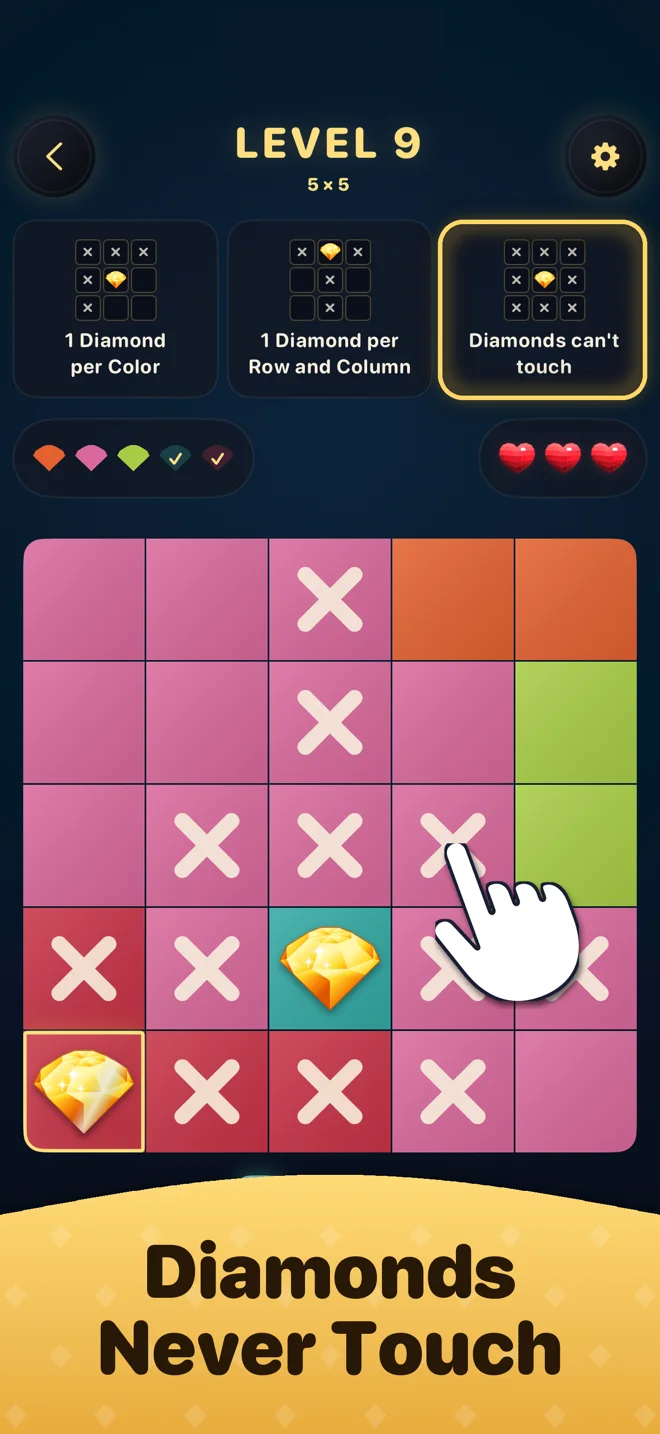
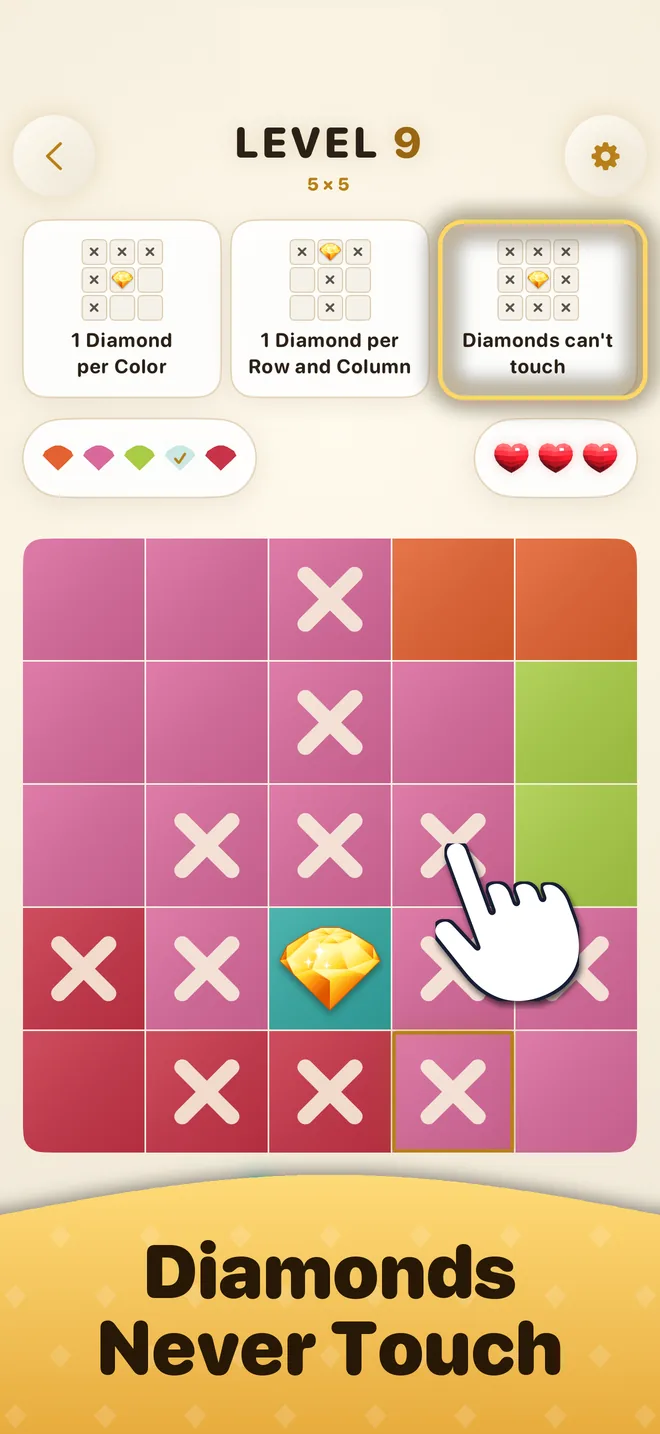
Show version 1.3 on the site: duels, 1000 levels and iPad
The store images are the 1.3 set, a new section explains the duels with
their six leagues and monthly seasons, and every place that said 600
levels or iPhone only now says 1000 levels and iPhone and iPad. The link
preview shows the duel in the middle.

diff --git a/index.html b/index.html
@@ -5,11 +5,11 @@
   <meta name="viewport" content="width=device-width, initial-scale=1">
   <meta name="theme-color" content="#fffaf0">
   <title>Diadoku: Logic, not luck</title>
-  <meta name="description" content="A calm logic puzzle for iPhone. Place one diamond in every row, column and color, and no two diamonds may touch. Every board has exactly one solution. 600 levels, a daily puzzle and a weekly star league, free.">
+  <meta name="description" content="A calm logic puzzle for iPhone and iPad. Place one diamond in every row, column and color, and no two diamonds may touch. Every board has exactly one solution. 1000 levels, duels against other players, a daily puzzle and a weekly star league, free.">
   <link rel="canonical" href="https://diadoku.com/">
   <meta property="og:type" content="website">
   <meta property="og:title" content="Diadoku: Logic, not luck">
-  <meta property="og:description" content="Place one diamond in every row, column and color. Every board has exactly one solution. Free on iPhone.">
+  <meta property="og:description" content="Place one diamond in every row, column and color. Every board has exactly one solution. 1000 levels and duels, free on iPhone and iPad.">
   <meta property="og:url" content="https://diadoku.com/">
   <meta property="og:image" content="https://diadoku.com/assets/og.jpg">
   <meta property="og:image:width" content="1270">
@@ -19,7 +19,7 @@
   <link rel="icon" type="image/png" sizes="32x32" href="assets/favicon-32.png">
   <link rel="icon" type="image/png" sizes="16x16" href="assets/favicon-16.png">
   <link rel="apple-touch-icon" href="assets/apple-touch-icon.png">
-  <link rel="stylesheet" href="styles.css?v=2">
+  <link rel="stylesheet" href="styles.css?v=3">
 </head>
 <body>
   <header class="top">
@@ -34,11 +34,12 @@
     <!-- Hero: the thesis and three store images, like the first gallery slide -->
     <section class="hero">
       <div class="copy">
-        <p class="eyebrow">A diamond logic puzzle for iPhone</p>
+        <p class="eyebrow">A diamond logic puzzle for iPhone and iPad</p>
         <h1>Logic, <em>not luck.</em></h1>
         <p class="lead">Place one diamond in every row, column and color. No two diamonds ever touch. Every board has exactly one solution.</p>
         <ul class="chips" aria-label="Highlights">
-          <li>600 levels</li>
+          <li>1000 levels</li>
+          <li>Duels</li>
           <li>Daily puzzle</li>
           <li class="gold">Free</li>
         </ul>
@@ -49,7 +50,7 @@
       </div>
       <div class="shots fan" aria-hidden="true">
         <img src="assets/store/01-find-the-diamonds.webp" width="660" height="1434" alt="">
-        <img src="assets/store/08-light-and-dark.webp" width="660" height="1434" alt="">
+        <img src="assets/store/04-duel-other-players.webp" width="660" height="1434" alt="">
         <img src="assets/store/07-leaderboard.webp" width="660" height="1434" alt="">
       </div>
     </section>
@@ -67,23 +68,34 @@
       </div>
       <div class="shots pair">
         <img src="assets/store/02-row-and-column.webp" width="660" height="1434" loading="lazy" alt="A level with X marks showing one diamond per row and column">
-        <img src="assets/store/03-never-touch.webp" width="660" height="1434" loading="lazy" alt="The dark look: the cells around a diamond are marked because diamonds never touch">
+        <img src="assets/store/03-never-touch.webp" width="660" height="1434" loading="lazy" alt="The cells around a diamond are marked because diamonds never touch">
       </div>
     </section>
 
-    <section class="feature feature--flip" aria-labelledby="daily-title">
+    <section class="feature feature--flip" aria-labelledby="duel-title">
+      <div class="copy">
+        <p class="eyebrow">New: Duels</p>
+        <h2 id="duel-title">Same board. <em>Who is faster?</em></h2>
+        <p class="lead">Race another player on the same board, with three hearts, no hints and three minutes. Win trophies and climb six leagues from Quartz to Diamond, with a new season every month.</p>
+      </div>
+      <div class="shots pair">
+        <img src="assets/store/04-duel-other-players.webp" width="660" height="1434" loading="lazy" alt="A duel: you and your opponent race on the same 8 by 8 board">
+        <img src="assets/store/05-climb-to-diamond.webp" width="660" height="1434" loading="lazy" alt="The duel lobby with your league, your trophies and the season">
+      </div>
+    </section>
+
+    <section class="feature" aria-labelledby="daily-title">
       <div class="copy">
         <p class="eyebrow">Every day</p>
         <h2 id="daily-title">A new puzzle <em>every day.</em></h2>
-        <p class="lead">Keep your daily streak going, earn bonus hints on every 7th day and go for three stars.</p>
+        <p class="lead">Light your streak flame with the first level of the day, keep it going, earn bonus hints on every 7th day and go for three stars.</p>
       </div>
-      <div class="shots pair">
-        <img src="assets/store/05-daily-challenge.webp" width="660" height="1434" loading="lazy" alt="The daily challenge, a 6 by 6 board">
-        <img src="assets/store/04-train-your-brain.webp" width="660" height="1434" loading="lazy" alt="Level complete with three stars, time, moves and mistakes">
+      <div class="shots single">
+        <img src="assets/store/06-daily-challenge.webp" width="660" height="1434" loading="lazy" alt="The daily challenge, a 5 by 5 board">
       </div>
     </section>
 
-    <section class="feature" aria-labelledby="league-title">
+    <section class="feature feature--flip" aria-labelledby="league-title">
       <div class="copy">
         <p class="eyebrow">Weekly league</p>
         <h2 id="league-title">Climb the <em>weekly league.</em></h2>
@@ -91,20 +103,22 @@
       </div>
       <div class="shots pair">
         <img src="assets/store/07-leaderboard.webp" width="660" height="1434" loading="lazy" alt="The weekly leaderboard with a podium for the top 3">
-        <img src="assets/store/06-gems-and-frames.webp" width="660" height="1434" loading="lazy" alt="The profile with gem avatars and frames">
+        <img src="assets/store/gems-and-frames.webp" width="660" height="1434" loading="lazy" alt="The profile with gem avatars and frames">
       </div>
     </section>
 
-    <section class="feature feature--flip" aria-labelledby="calm-title">
+    <section class="feature" aria-labelledby="calm-title">
       <div class="copy">
         <p class="eyebrow">Made with care</p>
         <h2 id="calm-title">Calm, clean <em>and yours.</em></h2>
         <ul class="ticks">
+          <li>1000 levels, from 4 by 4 to 10 by 10</li>
+          <li>On iPhone and iPad</li>
           <li>Light and dark look</li>
           <li>7 languages</li>
           <li>Progress saved in iCloud</li>
           <li>A tutorial with a voice</li>
-          <li>Plays offline</li>
+          <li>Levels play offline</li>
         </ul>
       </div>
       <div class="shots single">
@@ -115,7 +129,7 @@
     <section class="final" aria-labelledby="final-title">
       <img src="assets/icon-256.png" width="96" height="96" alt="">
       <h2 id="final-title">Think. Place. Solve.</h2>
-      <p>600 levels and a new puzzle every day. Free on iPhone.</p>
+      <p>1000 levels, duels and a new puzzle every day. Free on iPhone and iPad.</p>
       <a class="store-badge" href="https://apps.apple.com/app/apple-store/id6808338155?pt=129407361&amp;ct=website&amp;mt=8" target="_blank" rel="noopener noreferrer">
         <svg viewBox="0 0 24 24" aria-hidden="true"><path d="M16.7 12.8c0-2.3 1.9-3.4 2-3.5a4.3 4.3 0 0 0-3.4-1.8c-1.4-.1-2.7.8-3.4.8-.7 0-1.8-.8-3-.8a4.5 4.5 0 0 0-3.8 2.3c-1.6 2.8-.4 6.9 1.1 9.2.8 1.1 1.6 2.3 2.7 2.2 1.1 0 1.5-.7 2.9-.7s1.8.7 3 .7 2-1.1 2.7-2.3a10 10 0 0 0 1.2-2.5 4 4 0 0 1-2-3.6ZM14.4 6a4.2 4.2 0 0 0 1-3 4.3 4.3 0 0 0-2.8 1.5 4 4 0 0 0-1 2.9 3.6 3.6 0 0 0 2.8-1.4Z"/></svg>
         <span><small>Download on the</small><strong>App Store</strong></span>
